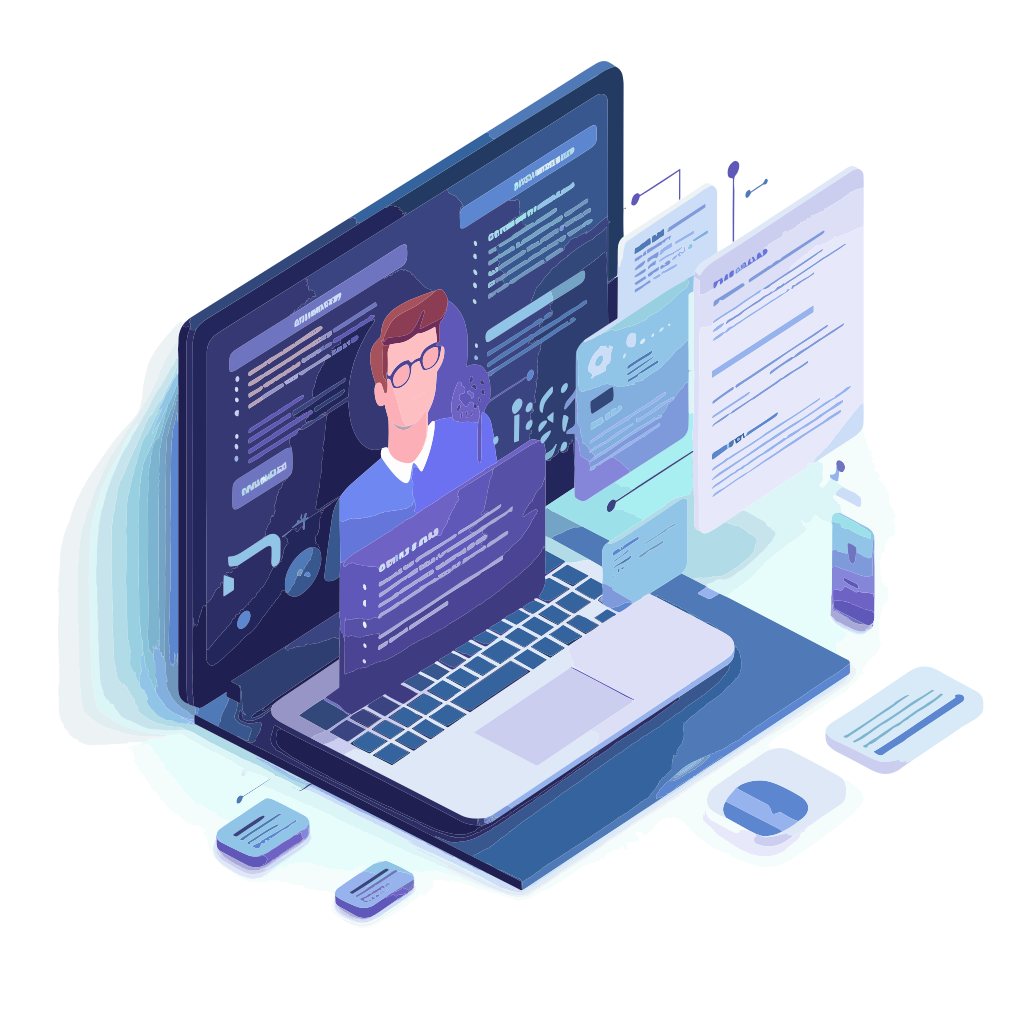
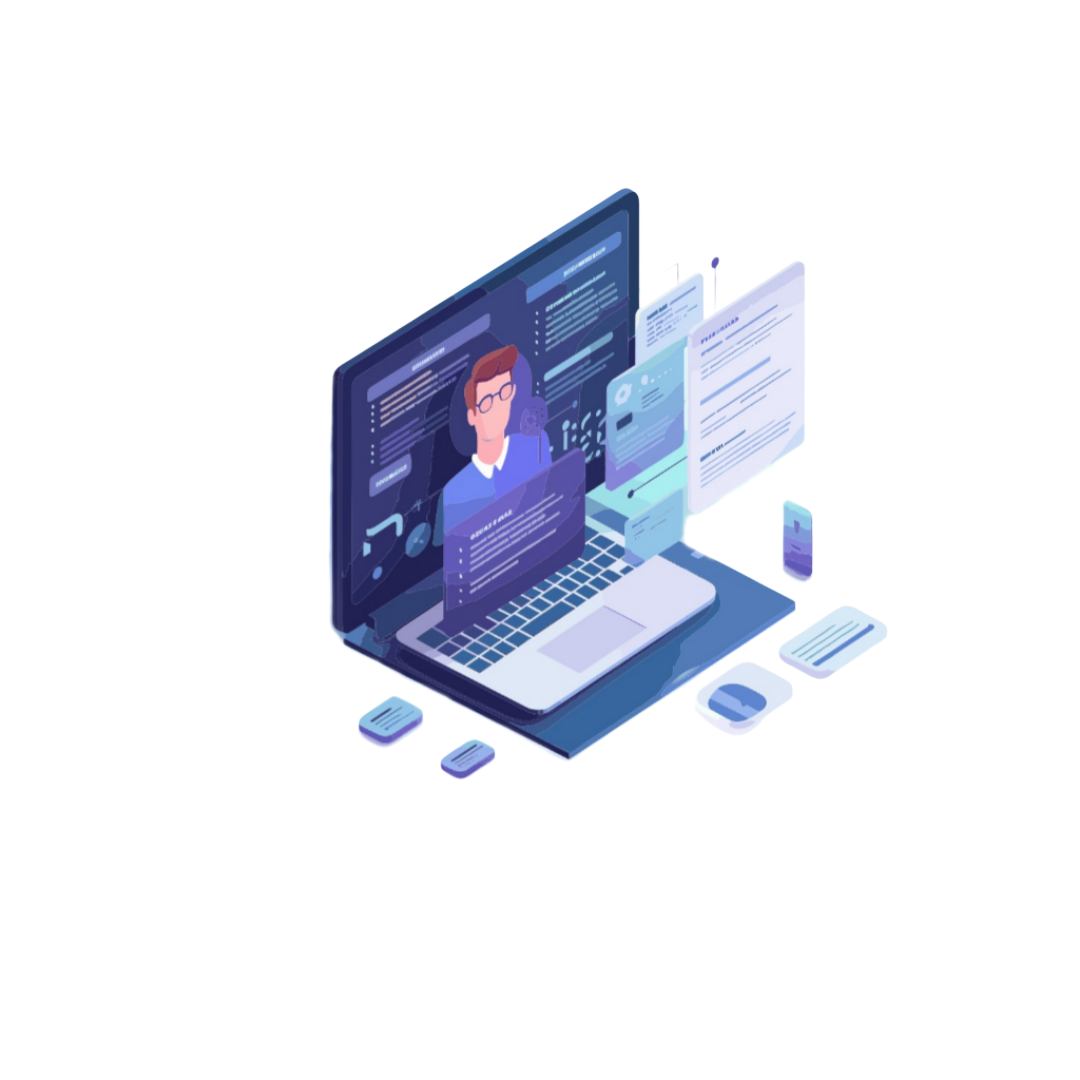
loader change

diff --git a/home/templates/home.html b/home/templates/home.html
@@ -445,9 +445,108 @@
       opacity: 0.25;
     }
   }
+  .spinner-overlay {
+    position: fixed;
+    top: 0;
+    left: 0;
+    width: 100%;
+    height: 100%;
+    background-color: rgba(13, 17, 23, 0.95);
+    z-index: 1000;
+    display: flex;
+    flex-direction: column;
+    align-items: center;
+    justify-content: center;
+    backdrop-filter: blur(5px);
+}
+
+.spinner-container {
+    position: relative;
+    width: 80px;
+    height: 80px;
+    margin-bottom: 40px; /* Space for text */
+}
+
+.spinner {
+    width: 100%;
+    height: 100%;
+    position: relative;
+}
+
+.spinner::before,
+.spinner::after {
+    content: "";
+    position: absolute;
+    border-radius: 50%;
+    animation: spin 1.5s cubic-bezier(0.5, 0, 0.5, 1) infinite;
+    border: 8px solid transparent;
+    mix-blend-mode: overlay;
+}
+
+.spinner::before {
+    width: 100%;
+    height: 100%;
+    border-top: 8px solid #58a6ff;
+    border-bottom: 8px solid #58a6ff;
+    animation-delay: 0.1s;
+}
+
+.spinner::after {
+    width: 75%;
+    height: 75%;
+    top: 12.5%;
+    left: 12.5%;
+    border-left: 8px solid #79c0ff;
+    border-right: 8px solid #79c0ff;
+    animation-delay: 0.2s;
+}
+
+.spinner-inner {
+    position: absolute;
+    width: 50%;
+    height: 50%;
+    top: 25%;
+    left: 25%;
+    border-radius: 50%;
+    border: 8px solid #7ee787;
+    border-top-color: transparent;
+    animation: spin 1.2s linear infinite;
+}
+
+.spinner-text {
+    position: relative;
+    margin-top: 20px;
+    text-align: center;
+    color: #c9d1d9;
+    font-size: 14px;
+    letter-spacing: 1px;
+    text-transform: uppercase;
+    animation: pulse 1.5s ease-in-out infinite;
+    width: 100%;
+    z-index: 1;
+}
+
+/* Rest of your existing animations */
+@keyframes spin {
+    0% { transform: rotate(0deg); }
+    100% { transform: rotate(360deg); }
+}
+
+@keyframes pulse {
+    0%, 100% { opacity: 0.6; }
+    50% { opacity: 1; }
+}
     </style>
 </head>
 <body>
+    <div id="loader" class="spinner-overlay" style="display: none;">
+        <div class="spinner-container">
+            <div class="spinner">
+                <div class="spinner-inner"></div>
+            </div>
+        </div>
+        <div class="spinner-text">Verifying Repository</div>
+    </div>
    <div class="shape-container" id="shapeContainer"></div>
 
     <!-- Shutter Overlays -->
@@ -625,6 +724,33 @@
       container.appendChild(shape);
     }
   });
+  document.querySelectorAll(".verify-form").forEach(form => {
+    form.addEventListener("submit", function(e) {
+        const top = document.getElementById("shutterTop");
+        const bottom = document.getElementById("shutterBottom");
+        const loader = document.getElementById("loader");
+        const spinnerText = document.querySelector(".spinner-text");
+
+        // Show shutters
+        top.classList.add("active");
+        bottom.classList.add("active");
+
+        // Update loading text with repo name (optional enhancement)
+        const repoName = this.querySelector("input[name='repo_name']").value;
+        spinnerText.textContent = `Verifying ${repoName}`; // This will show "Verifying [repository name]"
+        // OR keep the default if you prefer:
+        // spinnerText.textContent = "Verifying Repository";
+
+        // Show spinner loader
+        loader.style.display = "flex";
+
+        // Optional delay before actual submission
+        e.preventDefault();
+        setTimeout(() => {
+            form.submit();
+        }, 800);
+    });
+});
     </script>
 </body>
 </html>

diff --git a/home/templates/landing.html b/home/templates/landing.html
@@ -15,8 +15,8 @@
     :root {
       --primary: #4da6ff;
       --primary-dark: #1a73e8;
-      --secondary: #ff4d8d;
-      --accent: #00ffaa;
+      --secondary: #000000;
+      --accent: #000000;
       --dark: #0a0e17;
       --darker: #060913;
       --glass-bg: rgba(255, 255, 255, 0.05);
@@ -340,10 +340,12 @@
     }
 
     .hero-animation {
-      width: 500px;
-      z-index: 0;
-      filter: drop-shadow(0 10px 20px rgba(77, 166, 255, 0.3));
-    }
+    width: 100%;
+    max-width: none;
+    display: flex;
+    justify-content: center;
+    align-items: center;
+  }
 
     .features-container {
       display: grid;
@@ -417,7 +419,7 @@
   }
 
   .animated-img {
-    width: 400px;
+    width: 800px;
     max-width: 90%;
     display: block;
     margin: auto;
